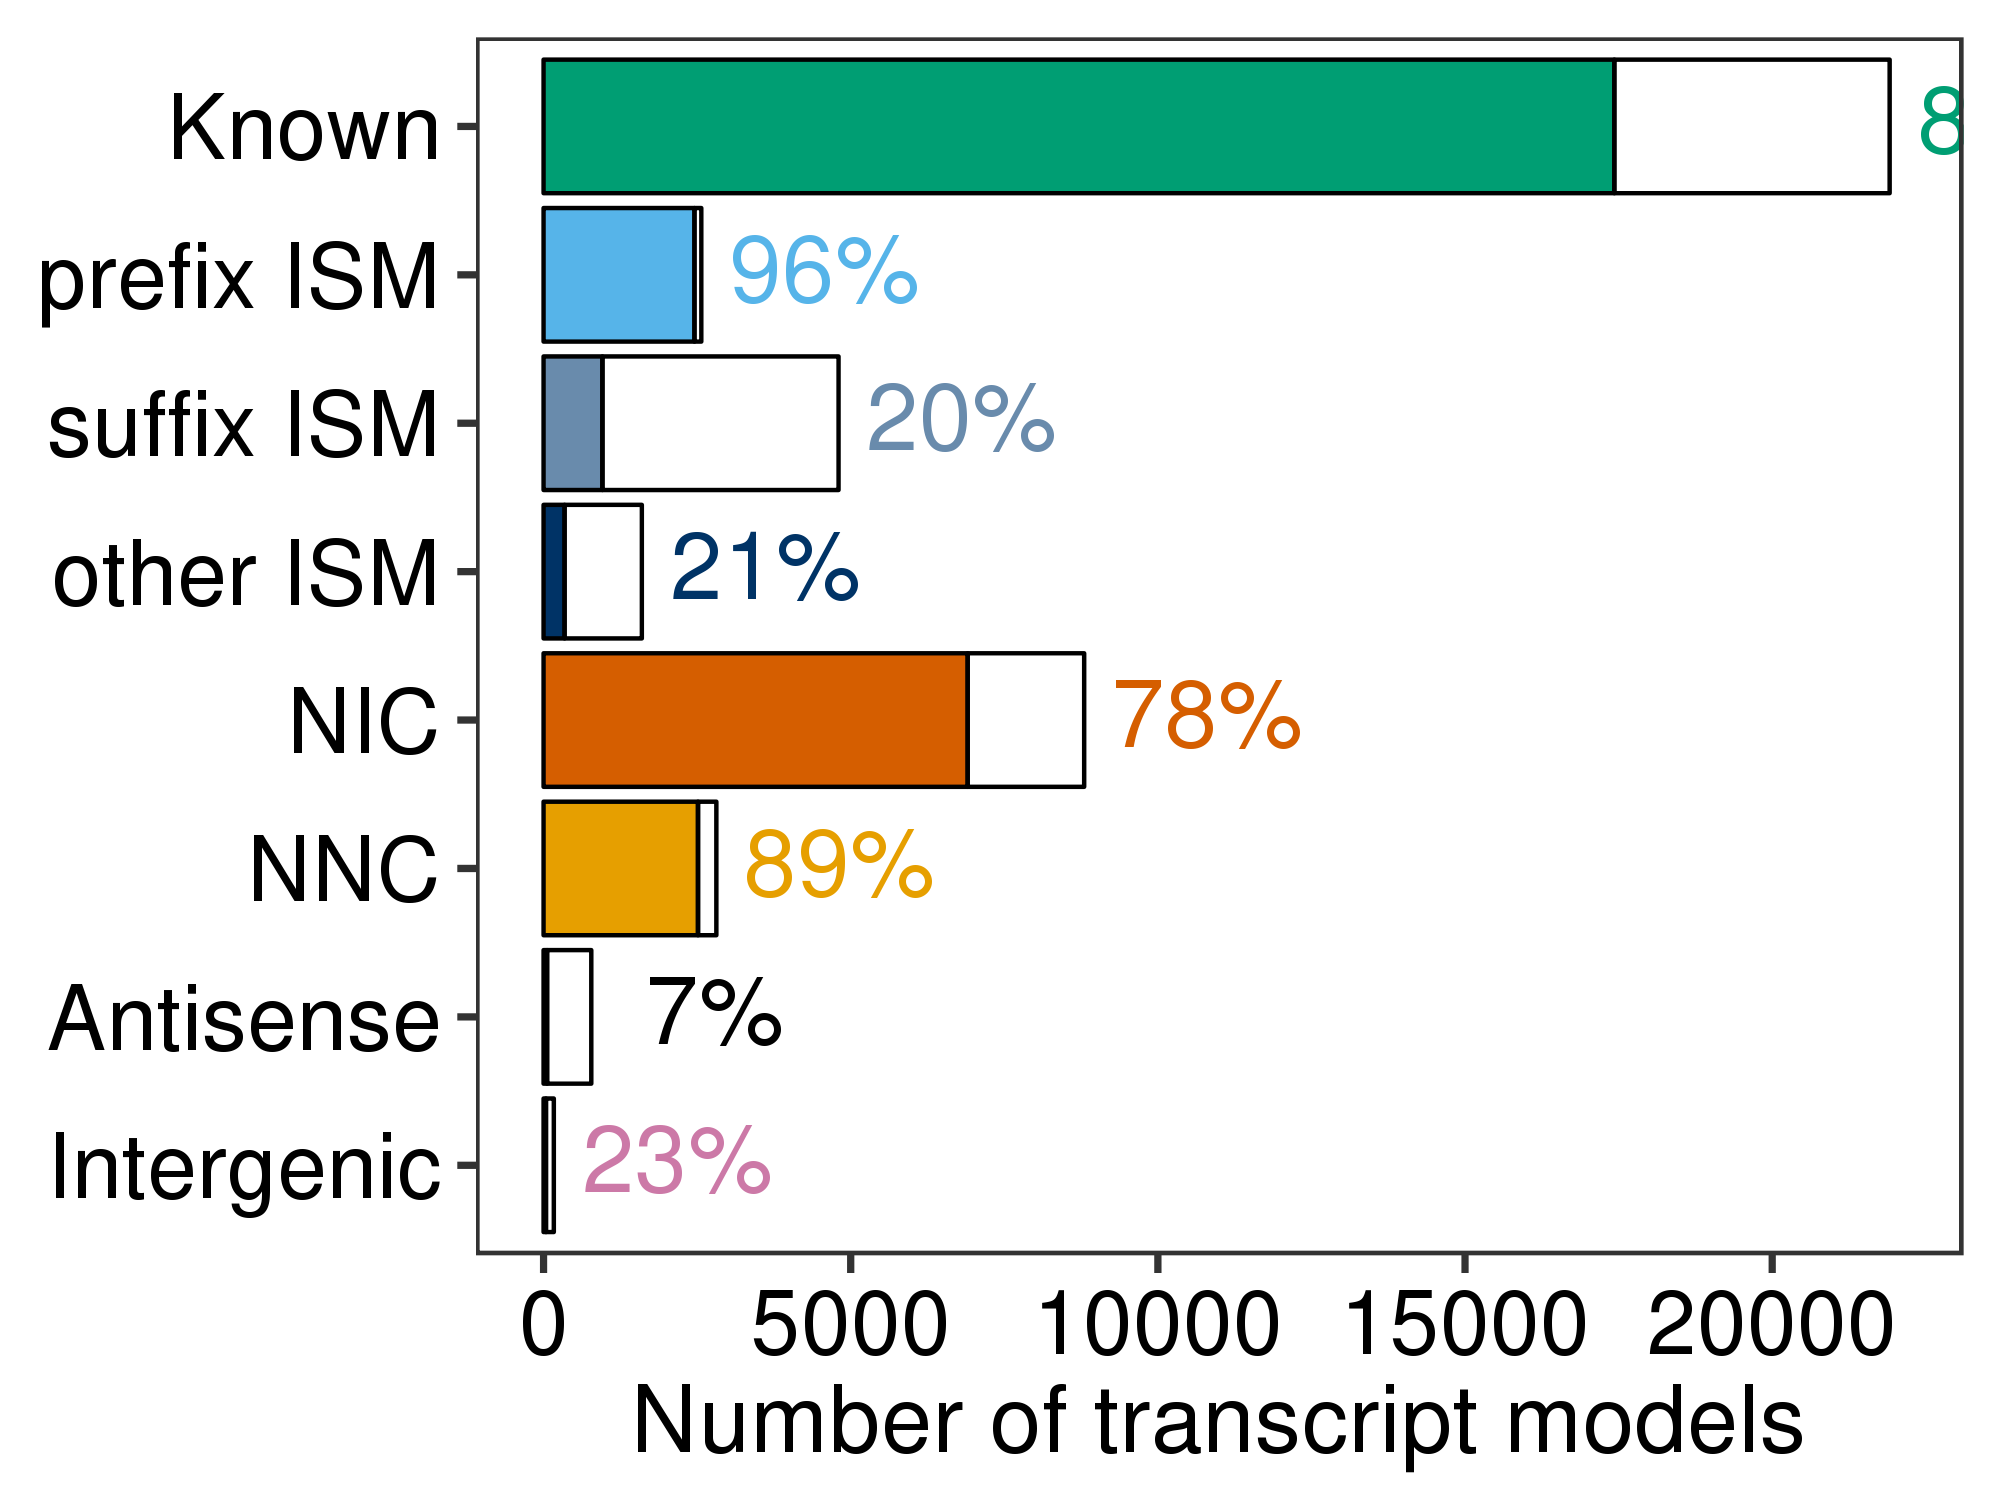
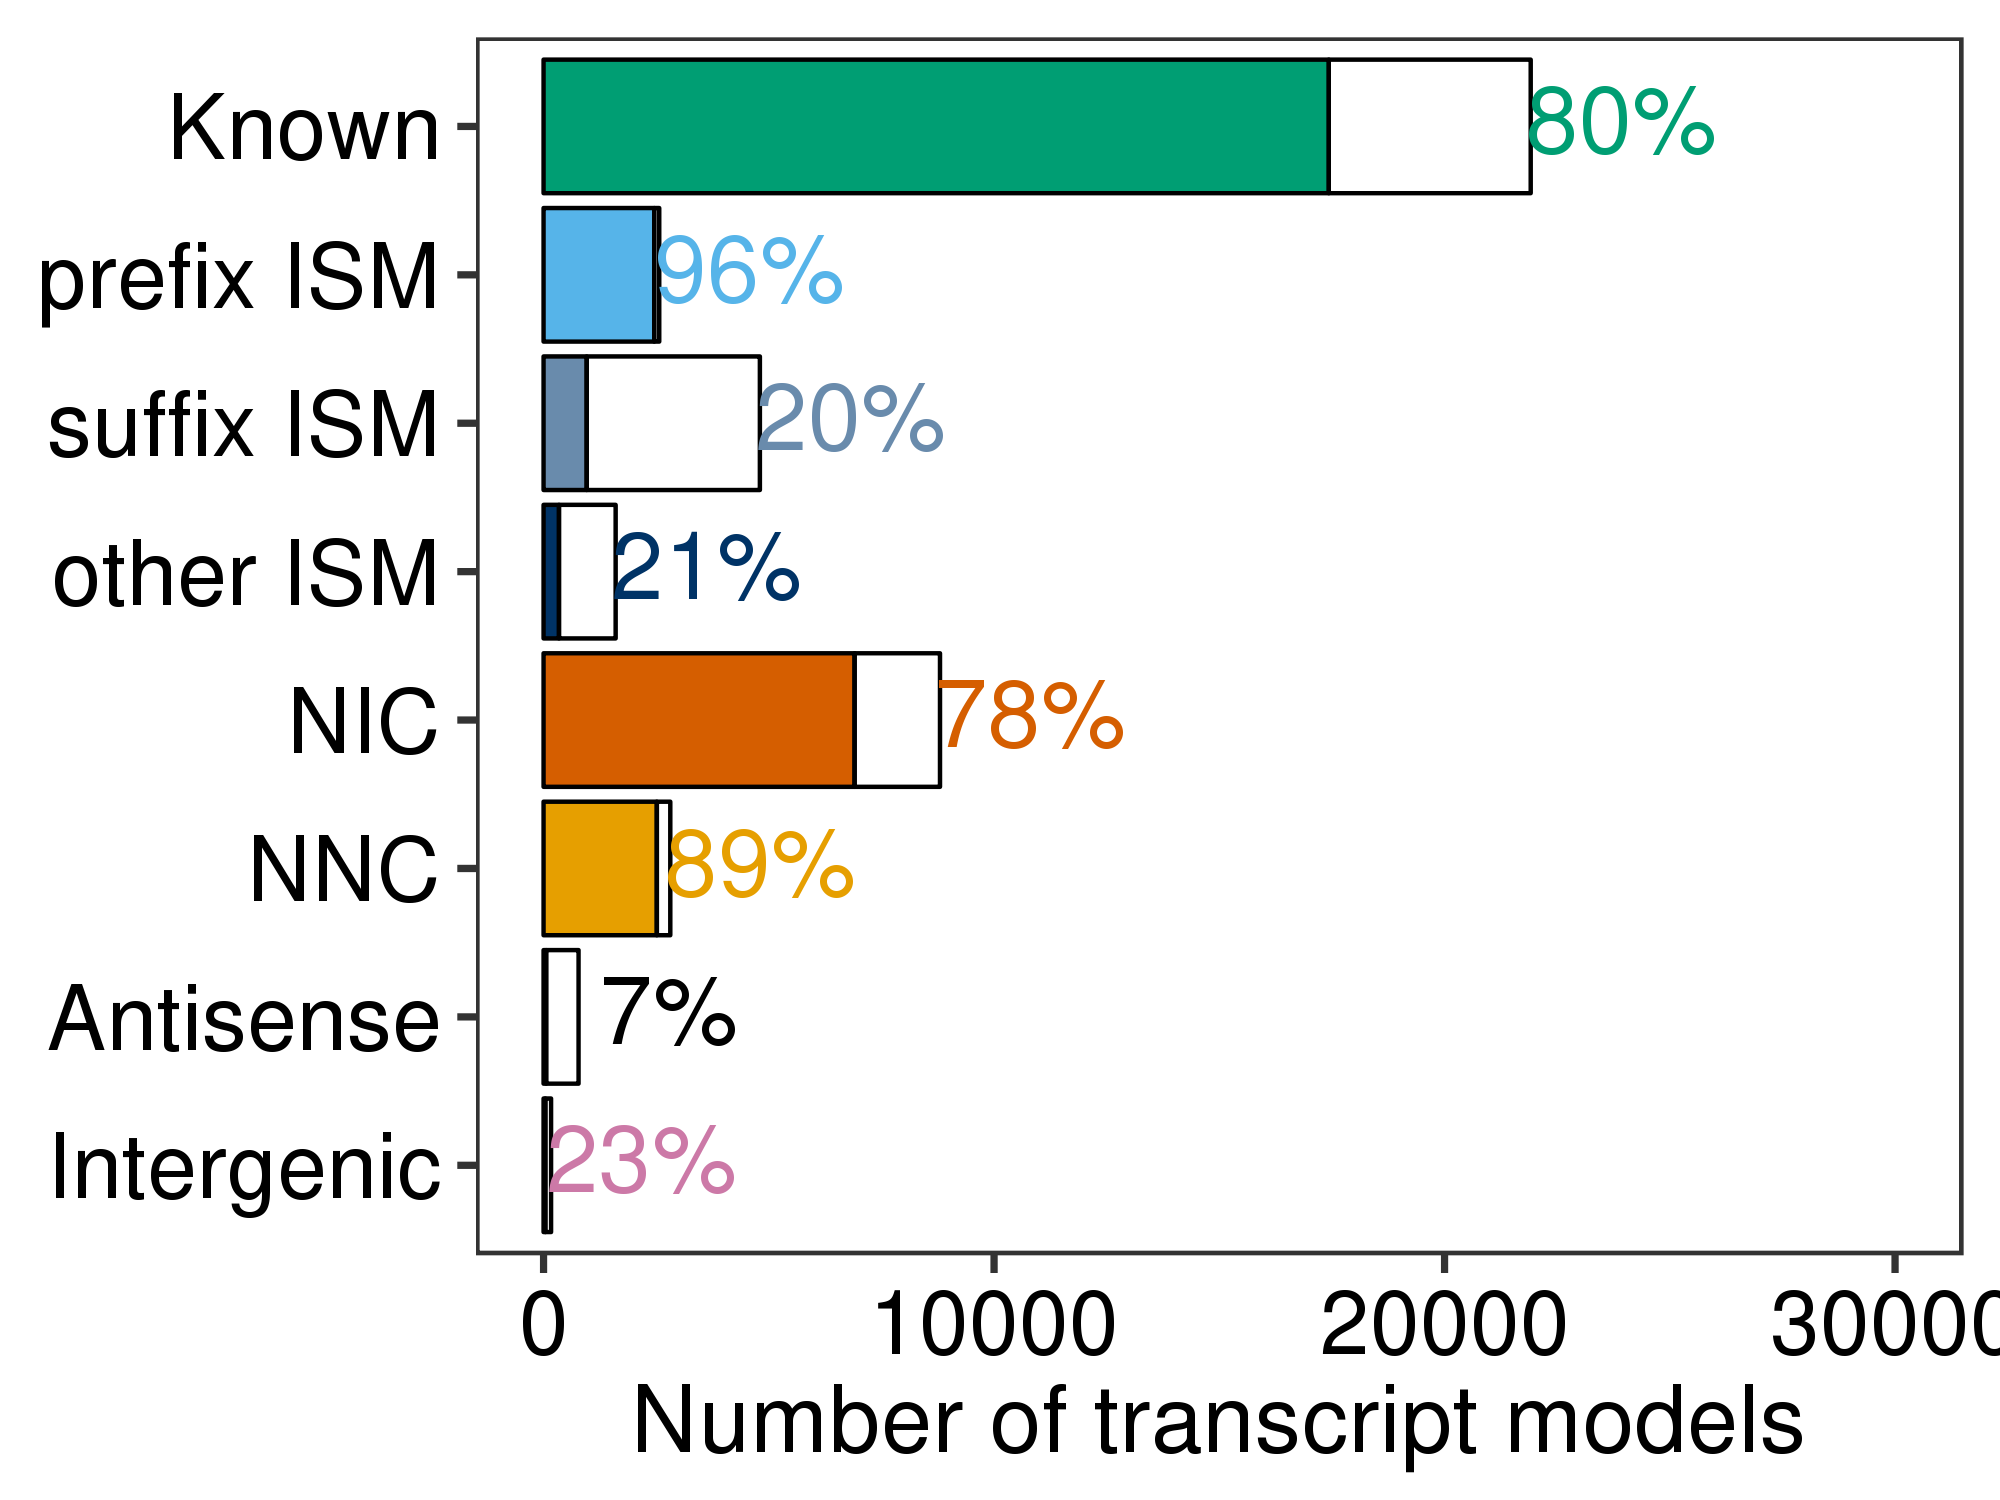
Expanded y axis

diff --git a/Supplemental_Figures/README.md b/Supplemental_Figures/README.md
@@ -548,7 +548,7 @@ Rscript ${PLOTPATH}/plot_support_by_novelty_type.R \
     --t CAGE \
     --novelty ${OUT}/transcript_beds/PacBio_HepG2_novelty.csv \
     --splitISM \
-    --ymax 22000 \ 
+    --ymax 30000 \ 
     -o figures/S17/HepG2_PacBio
 ```
 <img align="center" width="600" src="figures/S17/HepG2_PacBio_CAGE_support.png">
